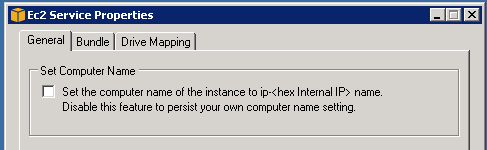
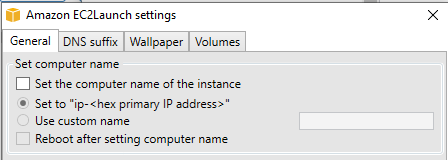
Update AWS configuration to use EC2Launch v2 agent

diff --git a/nservicebus/operations/configuring-aws.md b/nservicebus/operations/configuring-aws.md
@@ -10,12 +10,10 @@ redirects:
 
 Stale endpoint naming issues may occur when shutting down and restarting the server instance from the [AWS Management Console](https://aws.amazon.com/console/) due to AWS changing the hostname of the instance.
 
-It is possible to turn off this server name change feature using the [EC2Config tool](https://docs.aws.amazon.com/AWSEC2/latest/WindowsGuide/ec2config-service.html) which is installed on the server instance:
+It is possible to turn off this server name change feature using the [EC2Launch v2 agent](https://docs.aws.amazon.com/AWSEC2/latest/UserGuide/ec2launch-v2.html) which is installed on the server instance:
 
 ![EC2 Config Settings](ec2-config-settings.png)
 
-In this tool, uncheck "Set Computer Name" in the General tab and click OK:
+In this tool, uncheck "Set Computer Name" in the General tab and click Save:
 
 ![](ec2-service-properties.png)
-
-For Windows 2016 Server, EC2Config has been replaced by EC2Launch. Review the [EC2Launch documentation](https://docs.aws.amazon.com/AWSEC2/latest/WindowsGuide/ec2launch.html) for instructions on how to change the computer name for EC2 instances on Windows 2016 Server.
